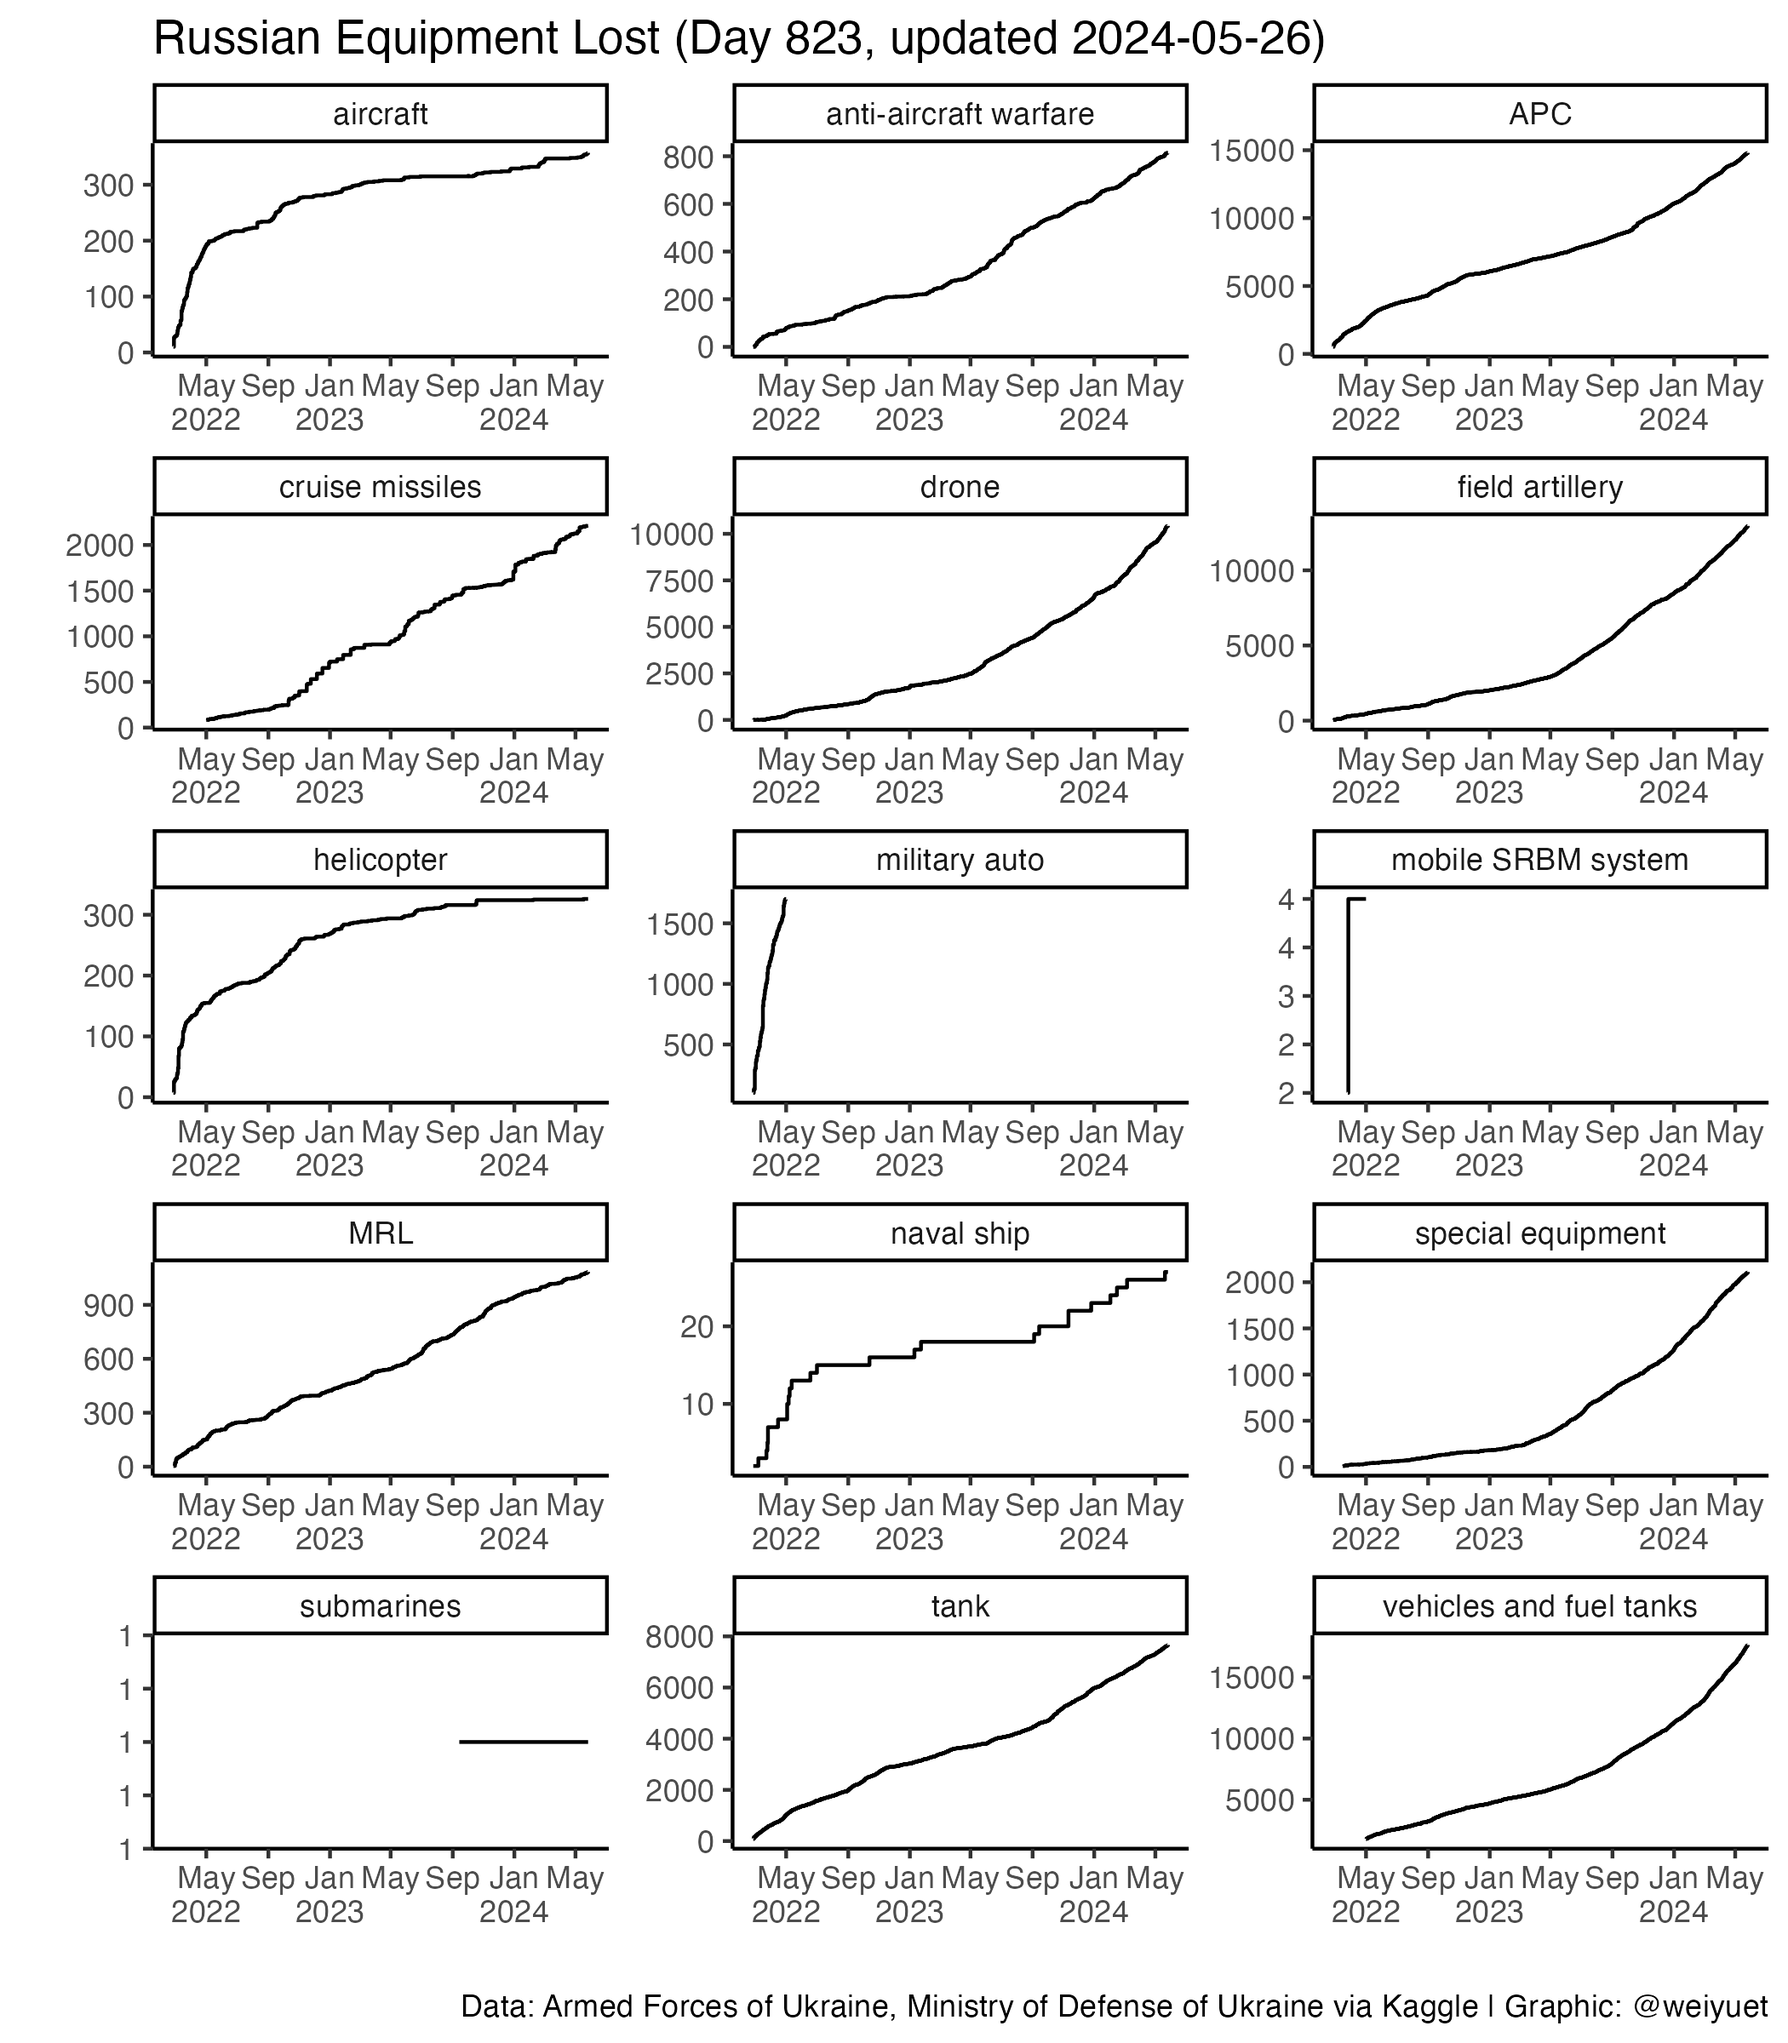
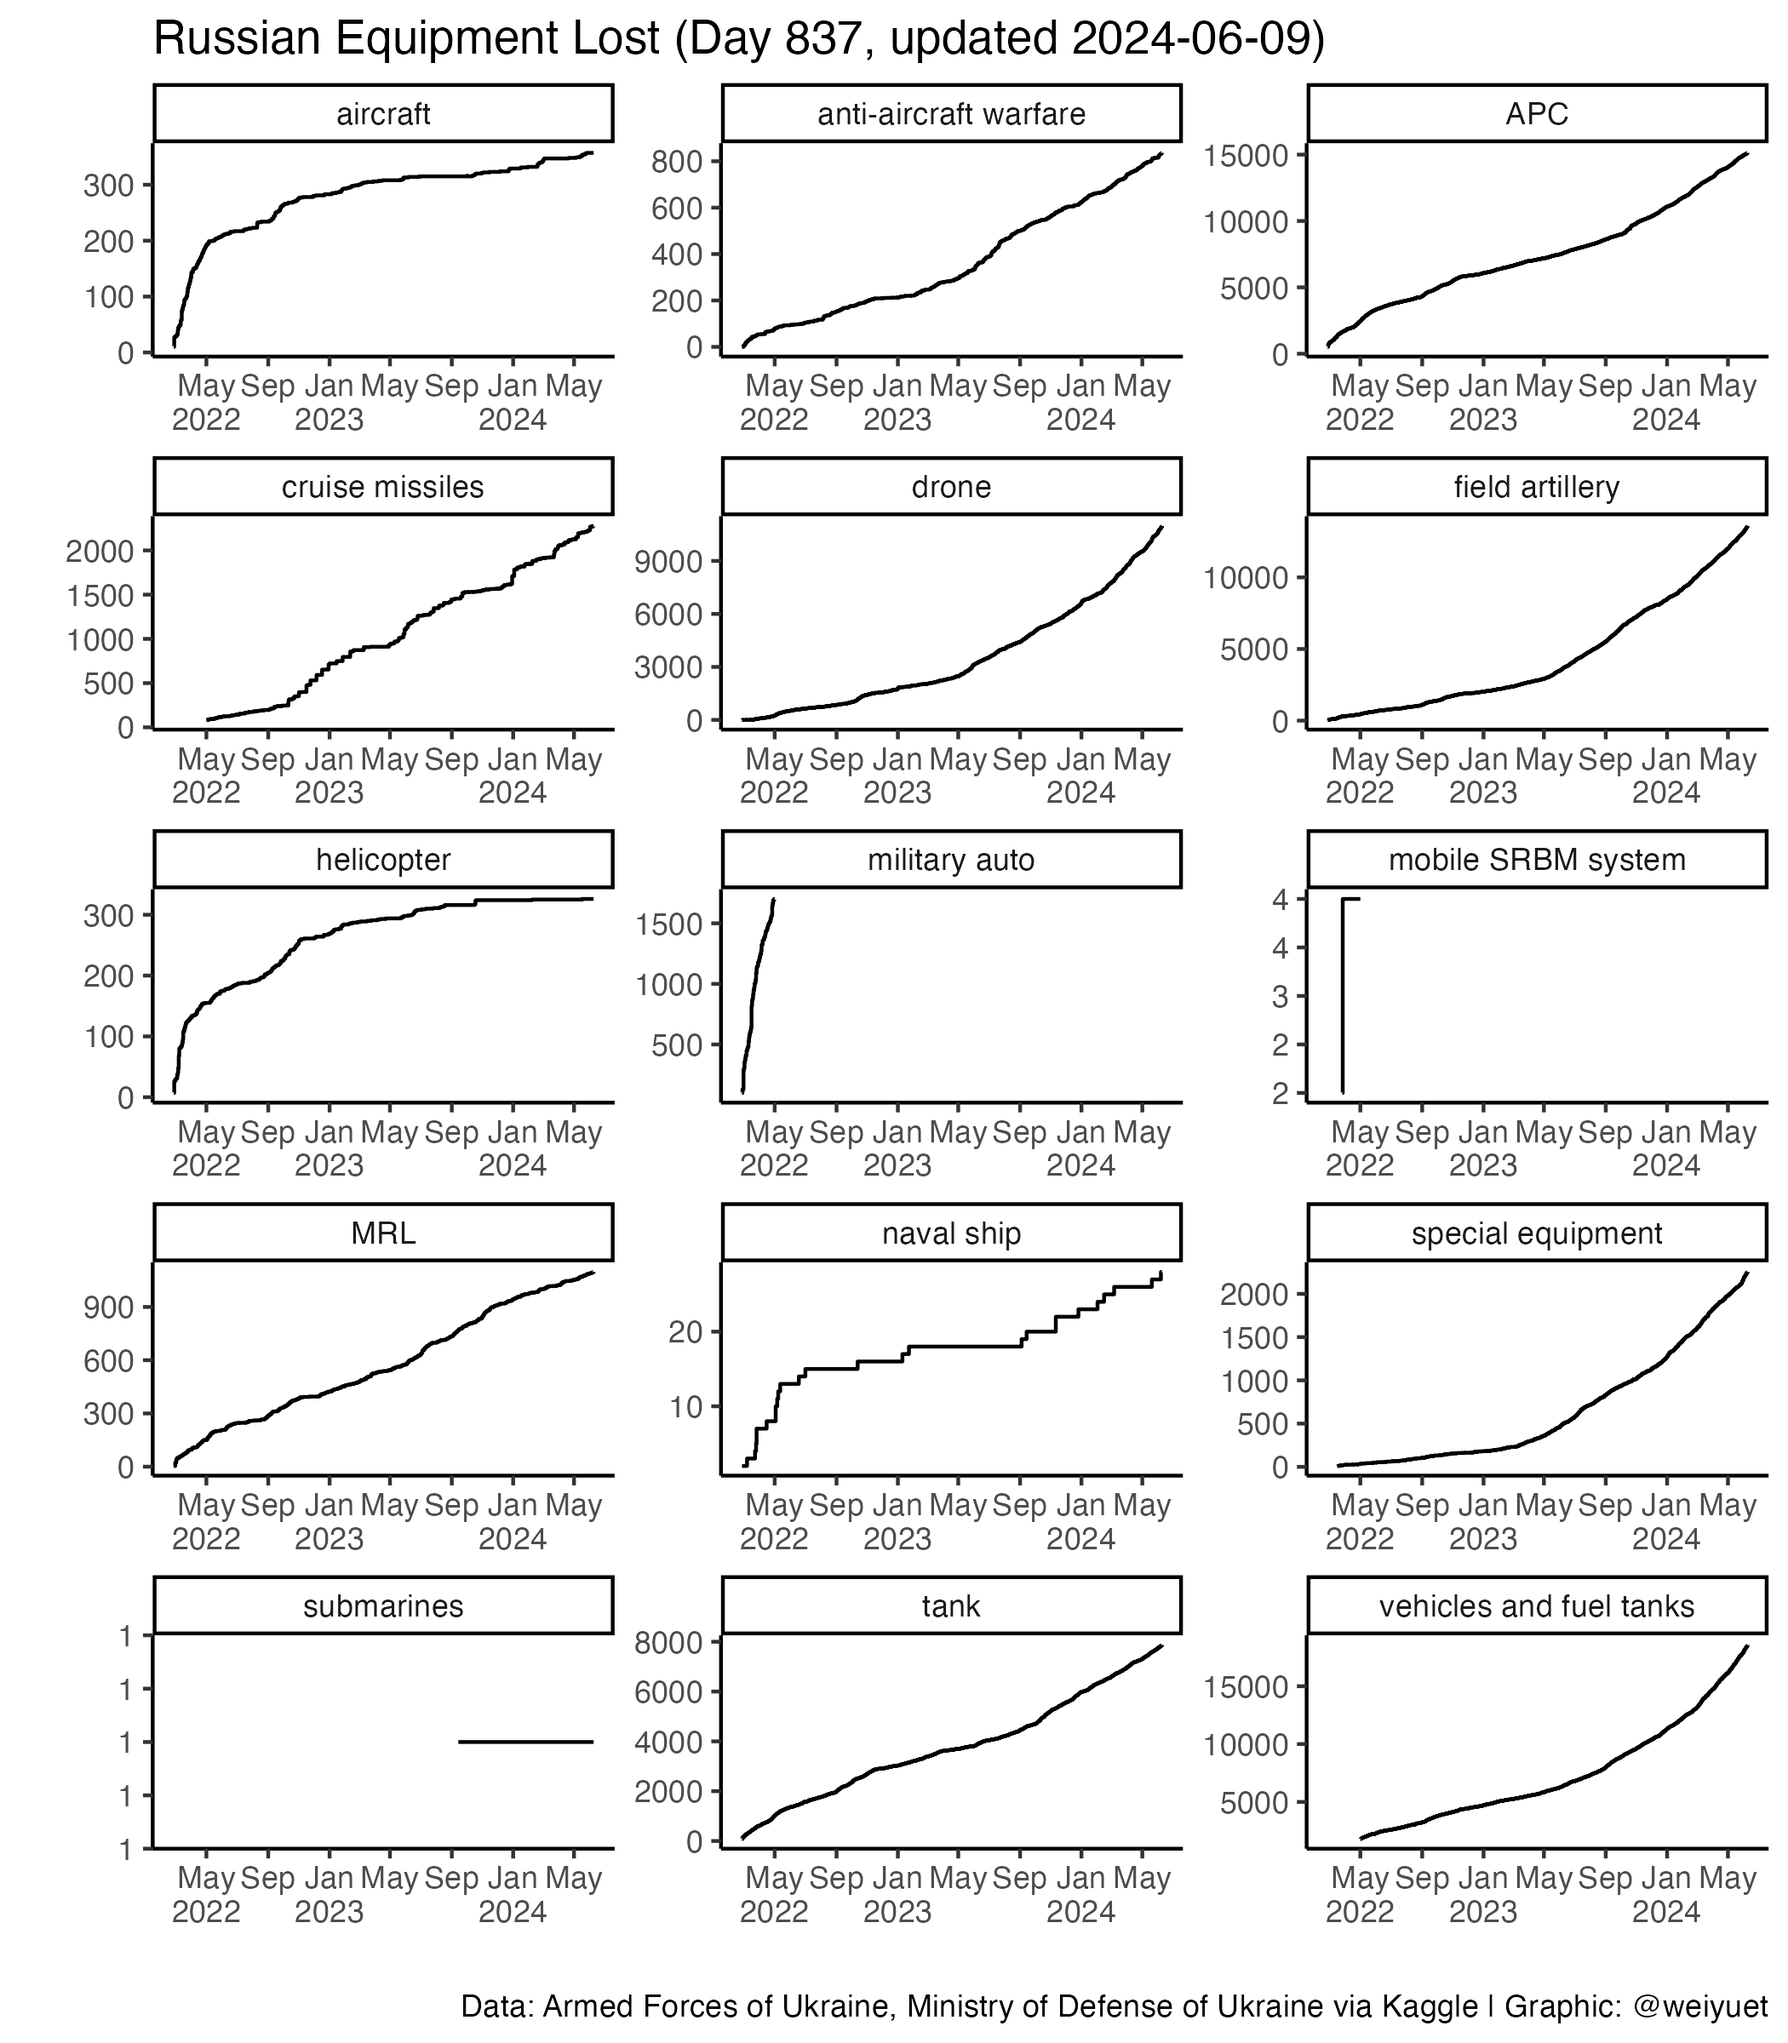
Updated 9 June

diff --git a/README.md b/README.md
@@ -6,7 +6,7 @@ Wong Wei Yuet 2022-05-26
 
   - War casualty data updated weekly from [`Petro Ivanyuk's Kaggle`](https://www.kaggle.com/datasets/piterfm/2022-ukraine-russian-war). All data is official and put together by `Petro`
 
-Updated: 2024-05-27
+Updated: 2024-06-09
 
 ## Summary of Conflict
 
